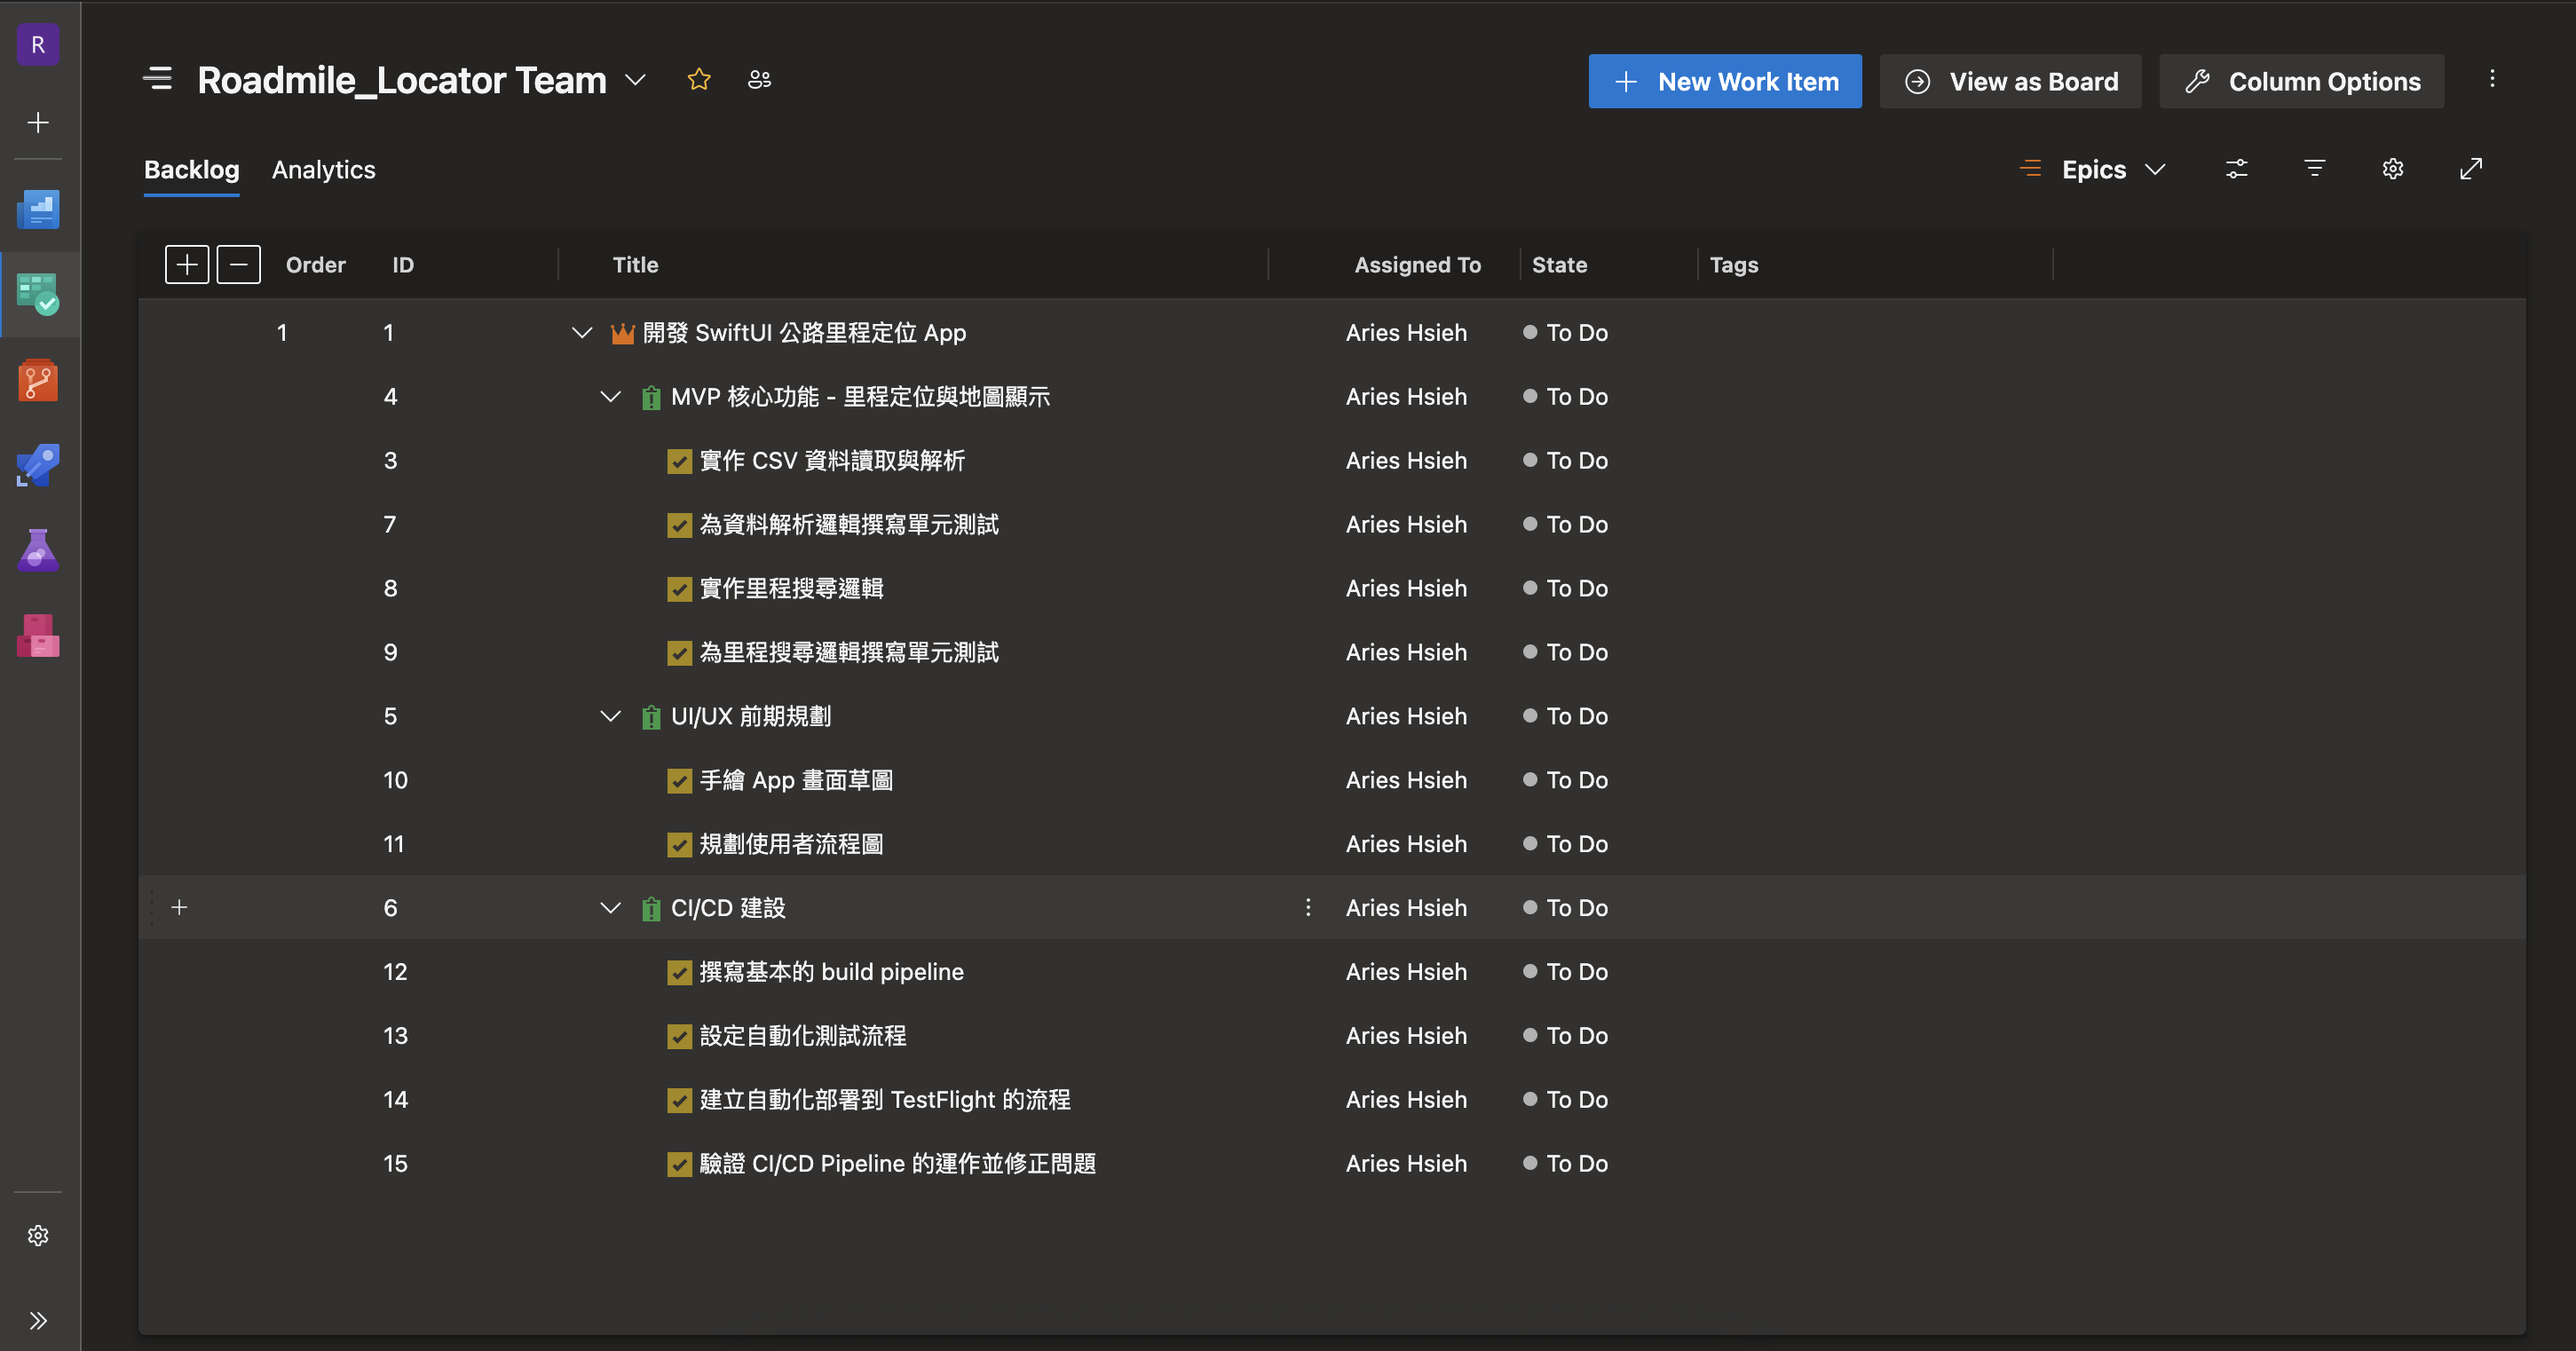
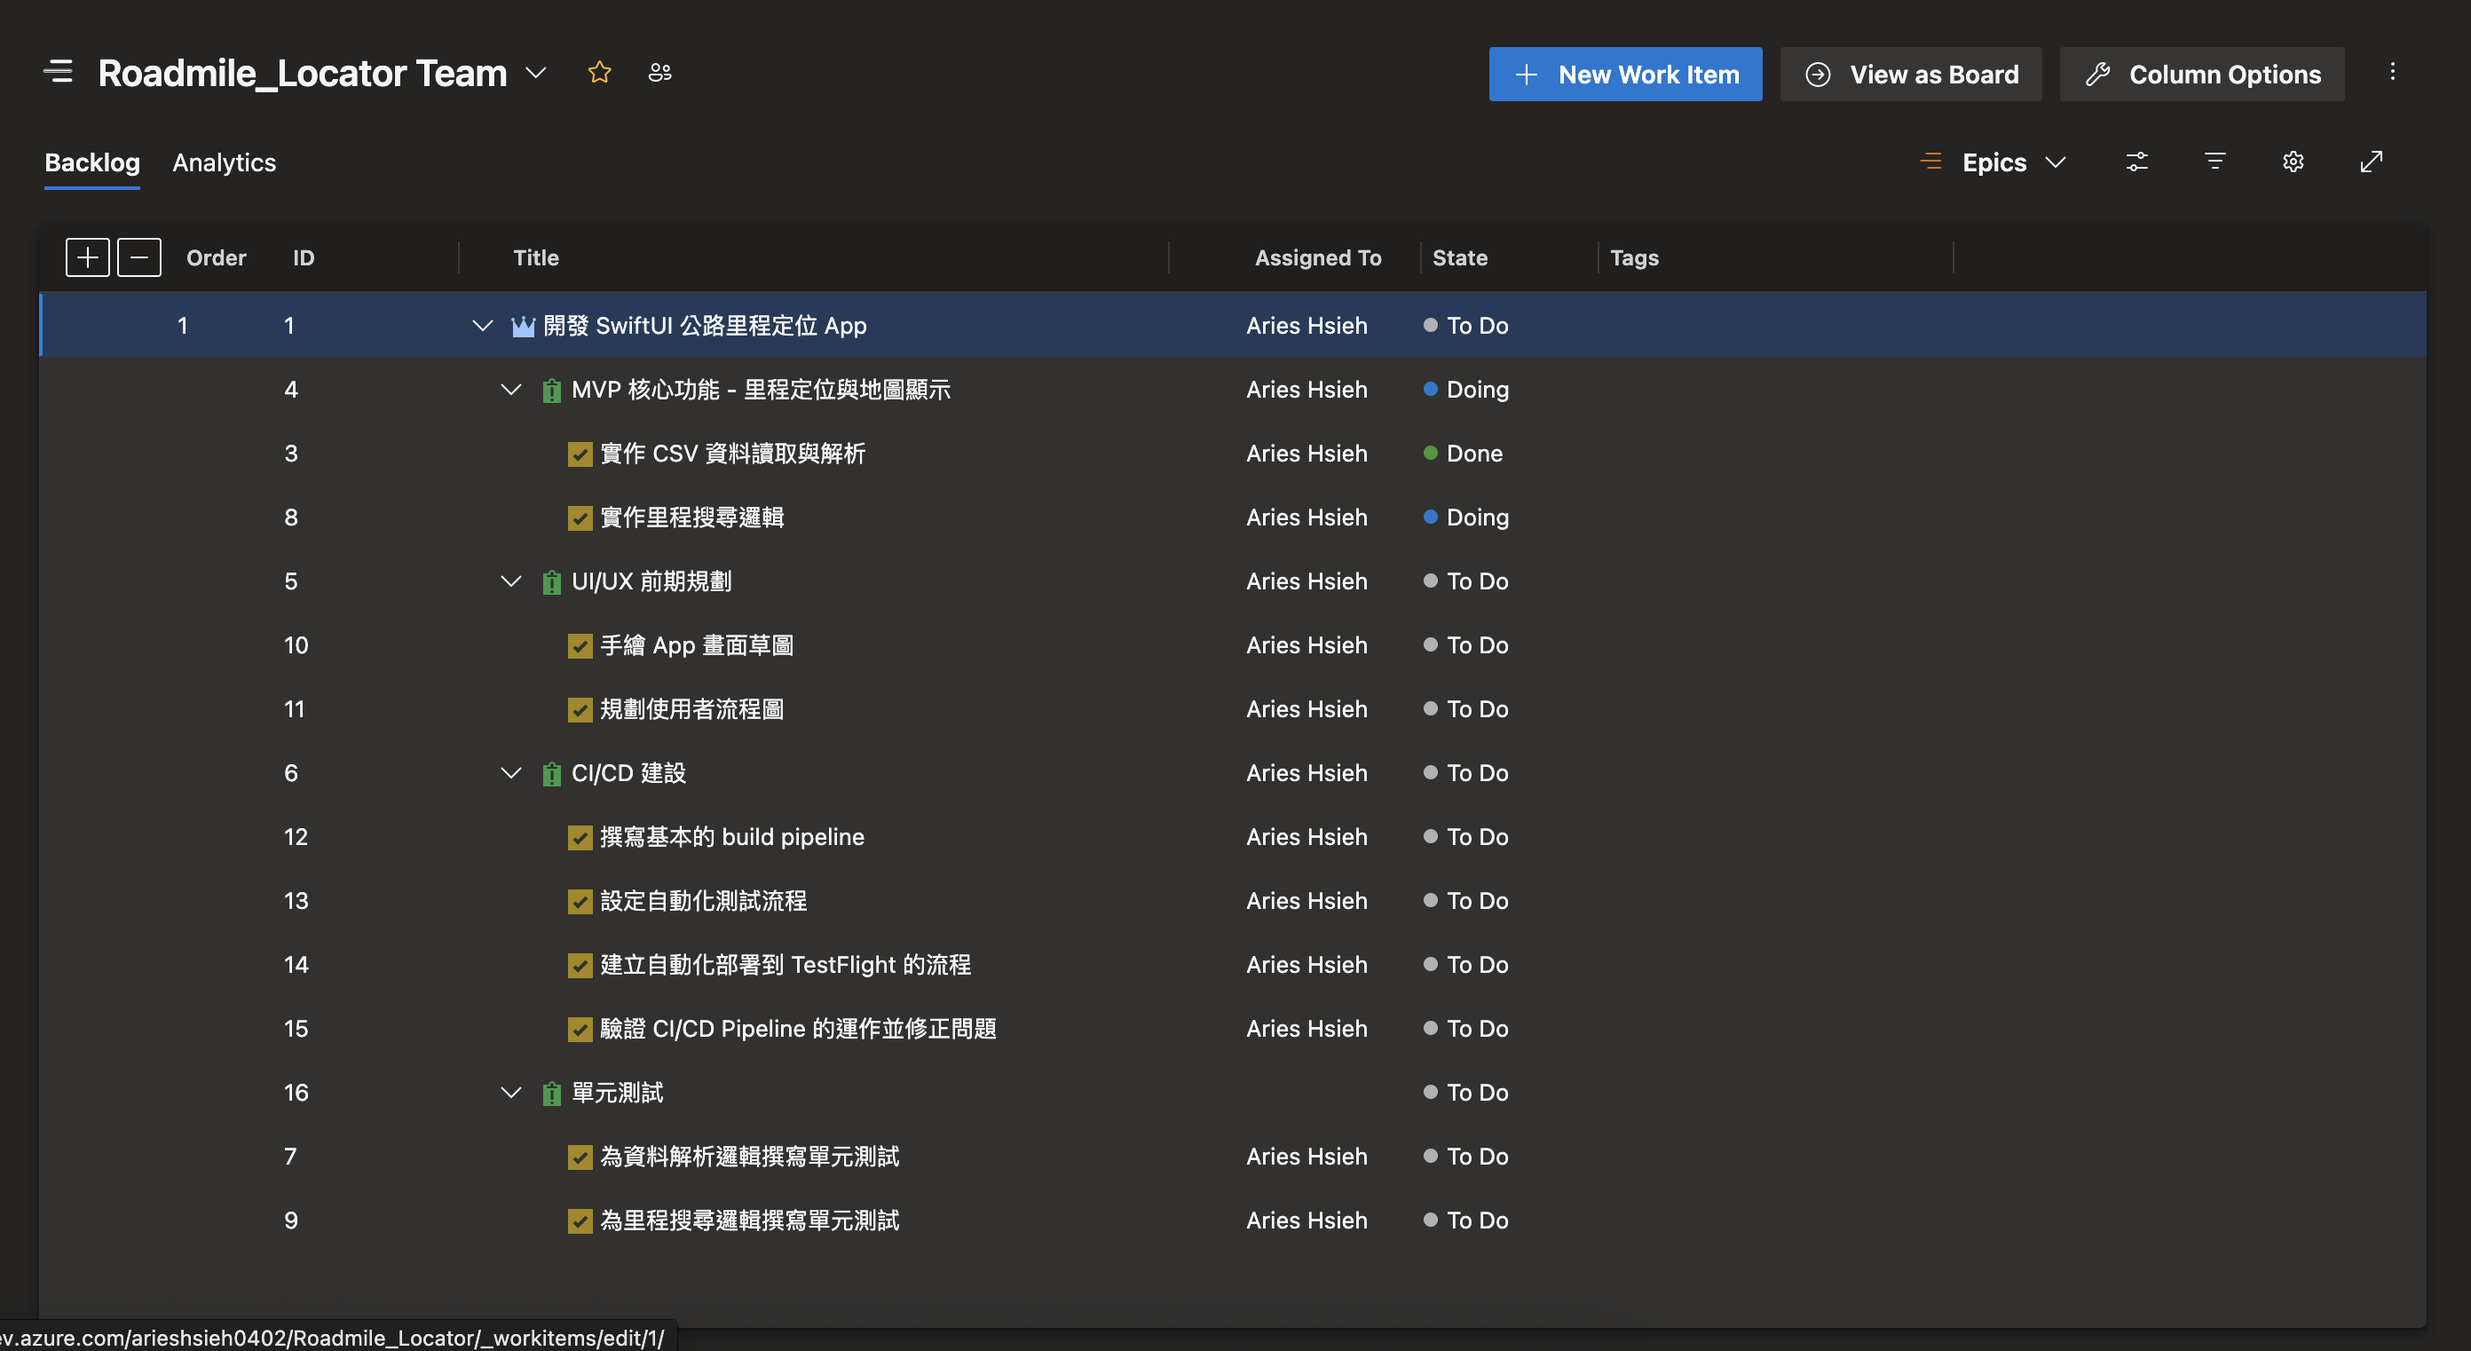
調整文章順序

diff --git a/AriesHsieh/content/posts/2025-08-21-iron-day14/index.md b/AriesHsieh/content/posts/2025-08-21-iron-day14/index.md
@@ -1,5 +1,5 @@
 ---
-title: "[Day 14] 使用 XCTest 來建立單元測試"
+title: "[Day 14] MVP 核心功能 - 里程搜尋邏輯"
 date: 2025-08-21T13:55:31+08:00
 draft: true
 categories: ["iOS"]
@@ -11,162 +11,3 @@ searchHidden: false
 comments: true
 ---
 
-# 前言
-
-昨天完成了實際資料的 CSV 讀取與解析，接著我們需要確保這個功能未來不會不小心被改壞，或是測試遇到不合格的資料（欄位數不夠、無法轉型）時，能妥善計算失敗筆數並略過。
-
-# 使用 XCTest 來完成單元測試
-
-XCTest 是 Apple 官方的測試框架，可以用來建立 unit tests, performance tests 還有 UI tests。詳細可參考[官方文件](https://developer.apple.com/documentation/xctest)。
-
-## Step 1: 建立測試目標 (Test Target)
-
-因為一開始在建立專案時，沒有勾選 Include Tests，所以我們現在必須手動新增。
-
-在專案左側列表，點選專案最上層專案名稱。在「Targets」區域點擊左下角的加號 (+)，新增一個「Unit Testing Bundle」，並給這個測試目標命名（例如 RoadMileLocatorTests），完成建立。
-
-## Step 2: 編寫測試檔案
-
-### 預設測試 template
-
-建立完成後，會看到已經存在一個檔名同 test target 檔案：
-
-```swift
-import XCTest
-
-final class RoadMileLocatorTests: XCTestCase {
-
-    override func setUpWithError() throws {
-        // Put setup code here. This method is called before the invocation of each test method in the class.
-    }
-
-    override func tearDownWithError() throws {
-        // Put teardown code here. This method is called after the invocation of each test method in the class.
-    }
-
-    func testExample() throws {
-        // This is an example of a functional test case.
-        // Use XCTAssert and related functions to verify your tests produce the correct results.
-        // Any test you write for XCTest can be annotated as throws and async.
-        // Mark your test throws to produce an unexpected failure when your test encounters an uncaught error.
-        // Mark your test async to allow awaiting for asynchronous code to complete. Check the results with assertions afterwards.
-    }
-
-    func testPerformanceExample() throws {
-        // This is an example of a performance test case.
-        measure {
-            // Put the code you want to measure the time of here.
-        }
-    }
-}
-```
-
-這個是由 Xcode 自動產生的單元測試的 Template：
-
-以下是各個部分的用途：
-
-#### `setUpWithError()`
-
-在每一個測試方法（以`test`開頭的函式）執行之前都會被呼叫，例如你可以在這裡初始化你要測試的物件。
-
-#### `tearDownWithError()`
-
-在每一個測試方法執行完畢之後都會被呼叫，例如釋放 `setUpWithError` 中建立的物件或重置狀態。
-
-#### `testExample()`
-
-在 XCTest 中，所有測試方法的名稱都必須以 `test` 開頭，這裡是一個 example，你可以刪除並換成你自己的測試，例如 `testLoadValidHighwayCSVData()`。`XCTAssert` 系列的函式就是用在這裡，來驗證你的程式碼是否產生了預期的結果。
-
-#### `testPerformanceExample()`
-
-效能測試的範例，你可以將想測量效能的程式碼放在 `measure { ... }` 區塊中。Xcode 會多次執行這段程式碼並計算平均執行時間。
-
-### 自訂測試檔案
-
-雖然 Xcode 會預設產生一個測試檔案，但這裡我選擇不直接使用它，而是為 RoadDataManager 建立了一個專屬的測試檔案 RoadDataManagerTests.swift。當測試檔案的命名直接對應到它所要測試的類別時，整個專案的測試結構便一目了然。未來，當我需要修改或擴充 RoadDataManager 的功能時，我能夠立刻找到對應的測試案例來進行驗證或更新。
-
-在專案左側列表的測試目標資料夾，在裡面建立一個新的 Swift 檔案 RoadDataManagerTests.swift。在檔案頭部加入 import XCTest 和 @testable import YourAppModuleName，讓測試能引用專案內的類別。
-
-```swift
-import XCTest
-@testable import RoadMileLocator
-
-class RoadDataManagerTests: XCTestCase {
-    // ...
-}
-```
-
-```swift
-var manager: RoadDataManager!
-
-override func setUp() {
-    super.setUp()
-    manager = RoadDataManager()
-}
-
-func testLoadHighwayMarkersValidCSV() {
-    let (markers, failed) = manager.loadHighwayMarkersWithFailures(from: "highway_markers_test")
-
-    XCTAssertEqual(failed, 0)
-    XCTAssertEqual(markers.count, 4)
-}
-
-func testLoadProvincialMarkersValidCSV() {
-    let (markers, failed) = manager.loadProvincialMarkersWithFailures(from: "provincial_markers_test")
-
-    XCTAssertEqual(failed, 0)
-    XCTAssertEqual(markers.count, 3)
-}
-
-func testLoadHighwayMarkersInvalidCSV() {
-    let (markers, failed) = manager.loadHighwayMarkersWithFailures(from: "highway_markers_test_error")
-
-    XCTAssertEqual(failed, 1)
-    XCTAssertEqual(markers.count, 3)
-}
-
-func testLoadProvincialMarkersInvalidCSV() {
-    let (markers, failed) = manager.loadProvincialMarkersWithFailures(from: "provincial_markers_test_error")
-
-    XCTAssertEqual(failed, 1)
-    XCTAssertEqual(markers.count, 2)
-}
-```
-
-這幾個測試 func 讀取的是預先放入專案裡的測試 CSV 檔案，針對不同的情境進行測試。
-以 `testLoadHighwayMarkersValidCSV()` 來說，讀取的是正常的 CSV 檔案，
-
-```swift
-XCTAssertEqual(failed, 0)
-XCTAssertEqual(markers.count, 4)
-```
-
-`XCTAssertEqual()` 是一種「斷言」，這邊 `XCTAssertEqual(failed, 0)` 斷言的是 `failed` 為 0，如果結果符合斷言，那就會通過。
-`XCTAssertEqual(markers.count, 4)` 則是斷言 CSV 總共解析出 4 行資料（測試資料塞了 4 行）。其他的就以此類推，放有問題的測試資料，測試我們的函式是否能正確判斷有錯誤資料，例如：
-
-
-```
-國道編號,隸屬縣市,坐標X-TWD97,坐標Y-TWD97,坐標X-WGS84,坐標Y-WGS84,公告樁號,性質,牌面內容,方向與備註
-國道1號高架路段,新北市,312583.472,2773241.373,121.6203311,我是座標,14100,指45,014K+100,北上
-國道1號高架路段,新北市,312484.618,2773230.258,121.6193508,25.06599366,14200,指45,014K+200,北上
-國道1號高架路段,新北市,312381.503,2773217.897,121.6183282,25.06588633,14300,指45,014K+300,北上
-國道1號高架路段,臺北市,312284.096,2773205.918,121.6173622,25.0657822,14400,指45,014K+400,北上
-```
-
-我把第一列資料的座標改為非數字「我是座標」，以測試型別轉換時是否能正確跳過錯誤。
-
-## Step 3：執行測試
-
-點擊 Xcode 上方選擇剛剛新增的測試目標（Scheme）。
-
-![alt text](pickScheme.png)
-
-點擊選單 Product > Test 執行所有測試。Xcode 下方會顯示測試結果，綠色表示通過，紅色表示失敗。
-
-![alt text](testResult.png)
-
-當然，若只想要測試某個項目，也可以直接點擊測試 function 左側的菱形執行該項測試。
-
-# 本日小結
-
-今天學會了如何使用 XCTest 來快速建立單元測試，之後這部分會整合在 pipeline 中執行自動化測試～明天繼續！

diff --git a/AriesHsieh/content/posts/2025-08-19-iron-day12/index.md b/AriesHsieh/content/posts/2025-08-19-iron-day12/index.md
@@ -62,27 +62,19 @@ Portfolio Backlog 與 Product Backlog 這兩個概念主要用在專案管理的
 
 - Issue:
 
-  - Issue 1: MVP 核心功能 - 里程定位與地圖顯示**
+  - MVP 核心功能 - 里程定位與地圖顯示**
     - 完成 App 最基本的功能：讀取資料、讓使用者搜尋單一里程點，並在地圖上顯示結果。
 
-  - Issue 2: UI/UX 前期規劃
+  - UI/UX 前期規劃
     - 進行 App 介面與使用者流程的初步設計。
 
-  - Issue 3: CI/CD 建設
+  - 單元測試
+    - 建立單元測試。
+
+  - CI/CD 建設
     - 規劃並最終建立自動化建置與測試的 CI/CD Pipeline。
 
-- Task:
-
-  - Task 1.1: 實作 CSV 資料讀取與解析
-  - Task 1.2: 為資料解析邏輯撰寫單元測試
-  - Task 1.3: 實作里程搜尋邏輯
-  - Task 1.4: 為里程搜尋邏輯撰寫單元測試
-  - Task 2.1: 手繪 App 畫面草圖 (Wireframe)
-  - Task 2.2: 繪製使用者流程圖
-  - Task 3.1: 撰寫基本的 build script（如 Xcode build 指令）
-  - Task 3.2: 設定自動化測試流程（單元測試/介面測試）
-  - Task 3.3: 建立自動化部署到 TestFlight 的流程
-  - Task 3.4: 驗證 CI/CD Pipeline 的運作並修正問題
+接著再就該 issue 建立預計要完成的 tasks。
 
 ## 建立 work item
 

diff --git a/AriesHsieh/content/posts/2025-08-22-iron-day15/index.md b/AriesHsieh/content/posts/2025-08-22-iron-day15/index.md
@@ -1,5 +1,5 @@
 ---
-title: "[Day 15] MVP 核心功能 - 里程搜尋邏輯"
+title: ""
 date: 2025-08-22T09:06:35+08:00
 draft: true
 categories: ["iOS"]
@@ -14,4 +14,3 @@ comments: true
 # 2025 08 22 Iron Day15
 
 
-![alt text](image.png)
